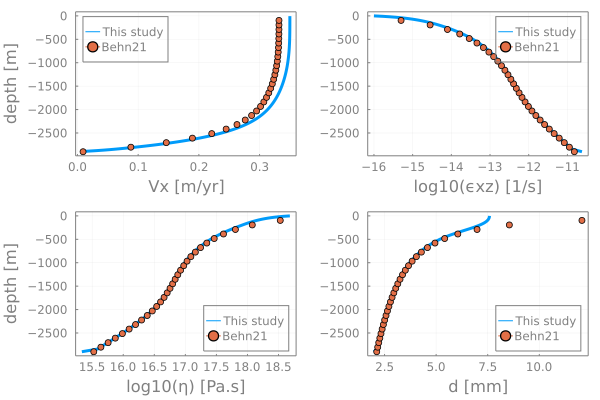
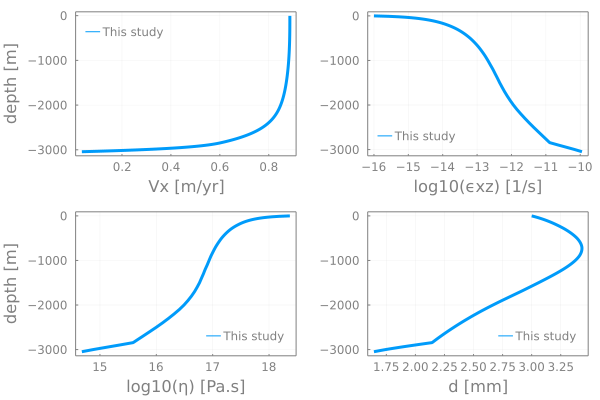
update readme and new results

diff --git a/README.md b/README.md
@@ -10,10 +10,12 @@ We implement the wattmeter ([Austin and Evans, 2007](https://doi.org/10.1130/G23
 * [References](#references)
 
 # Benchmark
-We benchmark our wattmeter-based grain-size evolution implementation against results published by [Behn et al. (2001)](https://doi.org/10.5194/tc-2020-295).
+We benchmark our wattmeter-based grain-size evolution implementation against results submitted for publication to EGU's _The Cryopshere_ by [Behn et al. (2001)](https://doi.org/10.5194/tc-2020-295).
 
 ## Codes
-The benchmark folder contains following 1D codes for the 1D ice column configuration (Section 3.3):
+
+### GSE implementation
+The [**benchmark**](benchmark) folder contains 1D codes resolving the 1D ice column configuration (see [Section 3.3](https://doi.org/10.5194/tc-2020-295)):
 - [`ice_column1D_lin.jl`](benchmark/ice_column1D_lin.jl) a linear viscous version
 - [`ice_column1D_powlawEii.jl`](benchmark/ice_column1D_powlawEii.jl) a power-law Glen version with strain-rate dependent viscosity η(ε̇II)
 - [`ice_column1D_powlawEii_Tii.jl`](benchmark/ice_column1D_powlawEii_Tii.jl) a power-law Glen version with stress dependent viscosity η(τII)
@@ -23,24 +25,36 @@ The benchmark folder contains following 1D codes for the 1D ice column configura
 
 The symbolic math derivation of "experimental to model" formulation is done in the [`FlowLawConversionFromLab2.ipynb`](benchmark/FlowLawConversionFromLab2.ipynb) notebook.
 
-The [GISP2](gisp2) folder contains the codes to reproduce the ice core data configuration (Section 3.4):
+### GSE application
+The [**gisp2**](gisp2) folder contains the codes to reproduce the ice core data configuration (see [Section 3.4](https://doi.org/10.5194/tc-2020-295)):
 - [`ice_column1D_fixGS_Tii_GISP2.jl`](benchmark/ice_column1D_fixGS_Tii_GISP2.jl) a composite rheology (GBS and dislocation creep) version with stress dependent viscosity η(τII), fixed grain size and temperature data for the GISP2 setup.
 - [`ice_column1D_GSE_Tii_GISP2.jl`](gisp2/ice_column1D_GSE_Tii_GISP2.jl) a composite rheology (GBS and dislocation creep) version with stress dependent viscosity η(τII), grain size evolution, temperature data for the GISP2 setup and depth-dependent age
 
 ## Results
-- We used the parameters and configuration from the 1D ice column case (Section 3.3, Fig. 6) to reproduce Figure 6 using the [`ice_column1D_GSE_Tii.jl`](benchmark/ice_column1D_GSE_Tii.jl) code:
+
+### GSE implementation
+We implemented the parameters and configuration from the 1D ice column case ([Section 3.3]((https://doi.org/10.5194/tc-2020-295))) to reproduce the Figure 6 using the [`ice_column1D_GSE_Tii.jl`](benchmark/ice_column1D_GSE_Tii.jl) code:
 
 ![](docs/ice_column1D_GSE_Tii.png)
 
-- We used the parameters and configuration from the 1D ice core data case (Section 3.4, Fig 7) to reproduce Figure 7 using the [`ice_column1D_GSE_Tii_GISP2.jl`](gisp2/ice_column1D_GSE_Tii_GISP2.jl) code:
+### GSE application
+We implemented the parameters and configuration from the 1D ice core data case ([Section 3.4]((https://doi.org/10.5194/tc-2020-295))) to reproduce the Figure 7 using the [`ice_column1D_GSE_Tii_GISP2.jl`](gisp2/ice_column1D_GSE_Tii_GISP2.jl) code:
 
 ![](docs/ice_column1D_GSE_Tii_gisp2.png)
 
+The initial temperature and age profiles are taken from [Clow et al. (1999)](https://doi.org/10.1594/PANGAEA.55517) and [Ram et al. (2000)](https://doi.org/10.1029/2000JD900321), respectively.
+
+![](docs/ice_column1D_GSE_Tii_gisp2_initial.png)
+
+🚧 
 
 # References
 [Austin, N. J., Evans, B. (2007). Paleowattmeters: A scaling relation for dynamically recrystallized grain size. Geology 35 (4): 343–346, https://doi.org/10.1130/G23244A.1.](https://doi.org/10.1130/G23244A.1)
 
 [Behn, M. D., Goldsby, D. L., and Hirth, G. (2020). The role of grain-size evolution on the rheology of ice: Implications for reconciling laboratory creep data and the Glen flow law, The Cryosphere Discuss. \[preprint\], https://doi.org/10.5194/tc-2020-295, in review.](https://doi.org/10.5194/tc-2020-295)
 
+[Clow, G.D. (1999). GISP2-D Temperature. PANGAEA, https://doi.org/10.1594/PANGAEA.55517](https://doi.org/10.1594/PANGAEA.55517)
+
+[Ram, M., Donarummo, J., Stolz, M. R. and Koenig, G. (2000). Calibration of laser-light scattering measurements of dust concentration for Wisconsinan GISP2 ice using instrumental neutron activation analysis of aluminum: Results and discussion, J. Geophys. Res., 105(D20), 24731–24738, doi:10.1029/2000JD900321, 2000.](https://doi.org/10.1029/2000JD900321)
 
 [Julia]: https://julialang.org
